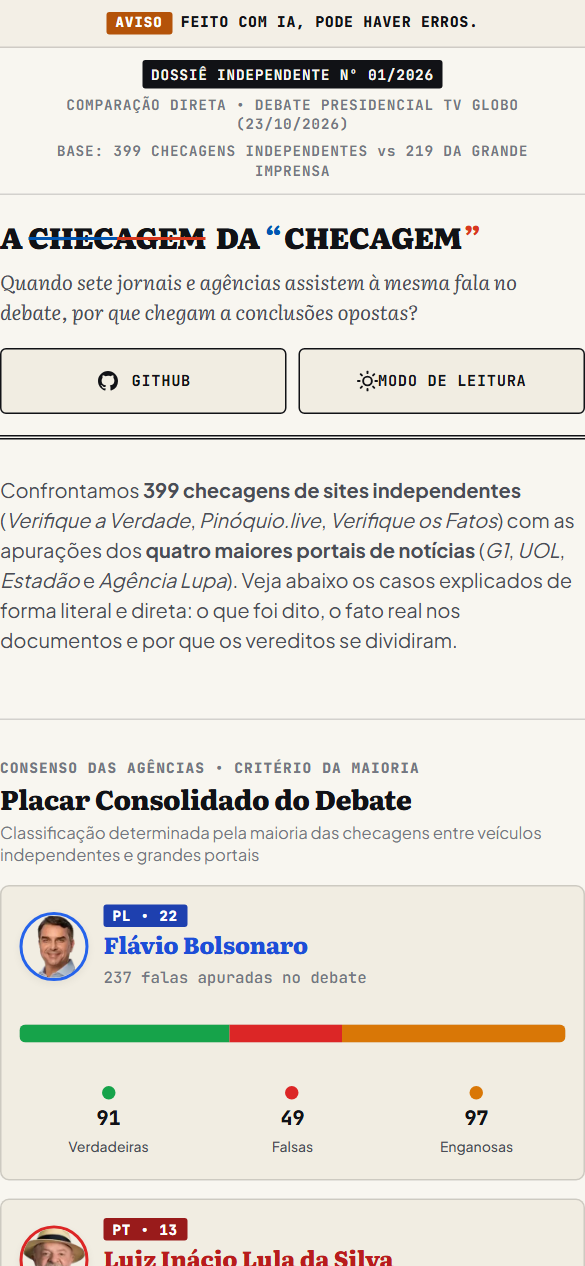
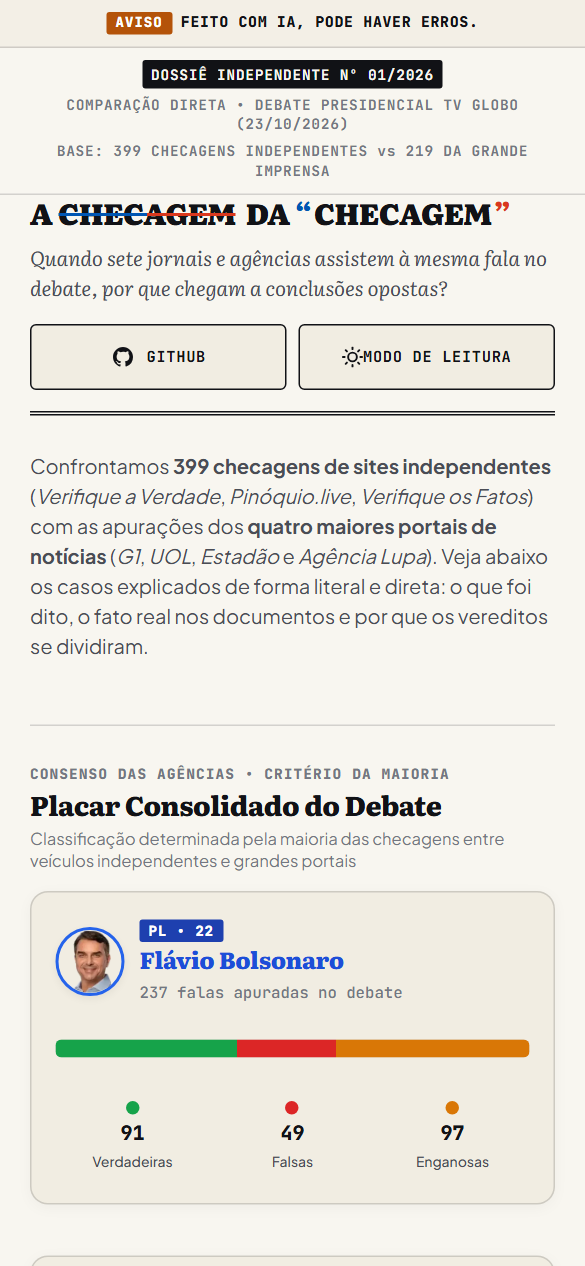
feat(mobile): implement dynamic view switcher, segmented duel perspectives and widen screen margins to 20px

diff --git a/app.js b/app.js
@@ -1,3 +1,79 @@
+
+// ==========================================================================
+// CONTROLE DE NAVEGAÇÃO DINÂMICA MOBILE (DOSSIÊ vs ÍNDICE DE CASOS)
+// ==========================================================================
+let currentMobileView = "dossier";
+
+function setMobileView(view, shouldScroll = true) {
+  const isMobile = window.innerWidth <= 768;
+  currentMobileView = view;
+  
+  const btnDossier = document.getElementById("tab-btn-dossier");
+  const btnIndex = document.getElementById("tab-btn-index");
+  const searchSec = document.querySelector(".search-filter-section");
+  const selectorSec = document.querySelector(".docket-selector");
+  const dossierSec = document.getElementById("active-case-dossier");
+  const frameworkSec = document.getElementById("case-framework");
+
+  if (!isMobile) {
+    if (searchSec) searchSec.style.display = "";
+    if (selectorSec) selectorSec.style.display = "";
+    if (dossierSec) dossierSec.style.display = "";
+    if (frameworkSec) frameworkSec.style.display = "";
+    return;
+  }
+
+  if (view === "dossier") {
+    btnDossier?.classList.add("active");
+    btnDossier?.setAttribute("aria-selected", "true");
+    btnIndex?.classList.remove("active");
+    btnIndex?.setAttribute("aria-selected", "false");
+
+    if (searchSec) searchSec.style.display = "none";
+    if (selectorSec) selectorSec.style.display = "none";
+    if (dossierSec) dossierSec.style.display = "block";
+    if (frameworkSec) frameworkSec.style.display = "block";
+
+    if (shouldScroll) {
+      document.querySelector(".mobile-view-tabs")?.scrollIntoView({ behavior: "smooth", block: "start" });
+    }
+  } else {
+    btnIndex?.classList.add("active");
+    btnIndex?.setAttribute("aria-selected", "true");
+    btnDossier?.classList.remove("active");
+    btnDossier?.setAttribute("aria-selected", "false");
+
+    if (searchSec) searchSec.style.display = "block";
+    if (selectorSec) selectorSec.style.display = "block";
+    if (dossierSec) dossierSec.style.display = "none";
+    if (frameworkSec) frameworkSec.style.display = "none";
+
+    if (shouldScroll) {
+      document.querySelector(".mobile-view-tabs")?.scrollIntoView({ behavior: "smooth", block: "start" });
+    }
+  }
+}
+
+function setupMobileNavigation() {
+  const btnDossier = document.getElementById("tab-btn-dossier");
+  const btnIndex = document.getElementById("tab-btn-index");
+
+  if (btnDossier) {
+    btnDossier.addEventListener("click", () => setMobileView("dossier"));
+  }
+  if (btnIndex) {
+    btnIndex.addEventListener("click", () => setMobileView("index"));
+  }
+
+  window.addEventListener("resize", () => {
+    setMobileView(currentMobileView, false);
+  });
+
+  if (window.innerWidth <= 768) {
+    setMobileView("dossier", false);
+  }
+}
+
 // ==========================================================================
 // A CHECAGEM DA CHECAGEM — APLICAÇÃO PRINCIPAL COM BUSCA, PAGINAÇÃO & MODOS
 // Suporte a TODAS as 412 Declarações do Debate Presidencial 2026
@@ -144,7 +220,7 @@ function renderCaseTabs() {
           if (target) {
             renderDossierCase(target);
             if (window.innerWidth <= 768) {
-              document.getElementById("active-case-dossier")?.scrollIntoView({ behavior: "smooth", block: "start" });
+              setMobileView("dossier", true);
             }
           }
         }
@@ -185,7 +261,7 @@ function renderCaseTabs() {
           if (target) {
             renderDossierCase(target);
             if (window.innerWidth <= 768) {
-              document.getElementById("active-case-dossier")?.scrollIntoView({ behavior: "smooth", block: "start" });
+              setMobileView("dossier", true);
             }
           }
         }
@@ -551,9 +627,15 @@ function renderDossierCase(c) {
       </div>
     </div>
 
-    <!-- 3. O Duelo em Duas Colunas da Gazeta -->
+    <!-- 3. O Duelo em Duas Colunas da Gazeta com Alternador de Perspectiva Mobile -->
+    <div class="duel-perspective-toggle" role="tablist" aria-label="Perspectiva editorial das agências">
+      <button type="button" class="btn-perspective-tab active" data-perspective="all">Todas as Checagens (${pressList.length + indepList.length})</button>
+      <button type="button" class="btn-perspective-tab" data-perspective="press">Grande Imprensa (${pressList.length})</button>
+      <button type="button" class="btn-perspective-tab" data-perspective="indep">Independentes (${indepList.length})</button>
+    </div>
+
     <div class="comparison-duel-layout">
-      <div class="duel-column">
+      <div class="duel-column duel-press-col">
         <div class="duel-column-header">
           <h3 class="column-entity-title">A Grande Imprensa</h3>
           <span class="column-meta-count">${pressList.length} checagens auditadas</span>
@@ -563,7 +645,7 @@ function renderDossierCase(c) {
         </div>
       </div>
 
-      <div class="duel-column">
+      <div class="duel-column duel-indep-col">
         <div class="duel-column-header">
           <h3 class="column-entity-title">Checadores Independentes</h3>
           <span class="column-meta-count">${indepList.length} checagens auditadas</span>
@@ -593,6 +675,30 @@ function renderDossierCase(c) {
       </div>
     </div>
   `;
+
+  
+  // Eventos do seletor de perspectiva editorial (mobile)
+  const perspectiveBtns = dossier.querySelectorAll(".btn-perspective-tab");
+  const pressCol = dossier.querySelector(".duel-press-col");
+  const indepCol = dossier.querySelector(".duel-indep-col");
+
+  perspectiveBtns.forEach(btn => {
+    btn.addEventListener("click", () => {
+      perspectiveBtns.forEach(b => b.classList.remove("active"));
+      btn.classList.add("active");
+      const p = btn.getAttribute("data-perspective");
+      if (p === "press") {
+        if (pressCol) pressCol.style.display = "flex";
+        if (indepCol) indepCol.style.display = "none";
+      } else if (p === "indep") {
+        if (pressCol) pressCol.style.display = "none";
+        if (indepCol) indepCol.style.display = "flex";
+      } else {
+        if (pressCol) pressCol.style.display = "flex";
+        if (indepCol) indepCol.style.display = "flex";
+      }
+    });
+  });
 
   // Eventos de navegação rápida do dossiê
   const dPrev = document.getElementById("dossier-nav-prev");
@@ -627,7 +733,11 @@ function renderDossierCase(c) {
 
   if (dIndex) {
     dIndex.addEventListener("click", () => {
-      document.querySelector(".docket-selector")?.scrollIntoView({ behavior: "smooth", block: "start" });
+      if (window.innerWidth <= 768) {
+        setMobileView("index", true);
+      } else {
+        document.querySelector(".docket-selector")?.scrollIntoView({ behavior: "smooth", block: "start" });
+      }
     });
   }
 }
@@ -849,5 +959,6 @@ document.addEventListener("DOMContentLoaded", () => {
   });
 
   setupThemeToggle();
+  setupMobileNavigation();
   applyFilters();
 });

diff --git a/styles.css b/styles.css
@@ -3791,3 +3791,144 @@ input:focus-visible {
   }
 }
 
+
+
+/* ==========================================================================
+   COMUTADORES E NAVEGAÇÃO DINÂMICA MOBILE (ESPECÍFICOS)
+   ========================================================================== */
+.mobile-view-tabs {
+  display: none;
+}
+
+.duel-perspective-toggle {
+  display: none;
+}
+
+@media (max-width: 768px) {
+  /* --------------------------------------------------------------------------
+     NOVA ARQUITETURA MOBILE DINÂMICA & RESPIRO AMPLO
+     -------------------------------------------------------------------------- */
+  .gazette-container {
+    padding: 0 20px !important;
+    max-width: 100% !important;
+    width: 100% !important;
+    box-sizing: border-box !important;
+  }
+
+  .docket-layout {
+    padding: 16px 20px 48px !important;
+    width: 100% !important;
+    box-sizing: border-box !important;
+  }
+
+  /* Cartões com cantos arredondados amigáveis e acolchoamento interno confortável */
+  .candidate-score-card,
+  .search-filter-section,
+  .docket-selector,
+  .case-dossier,
+  .transparency-panel {
+    border-radius: 12px !important;
+    padding: 18px 16px !important;
+    margin-bottom: 22px !important;
+    box-shadow: 0 2px 10px rgba(0, 0, 0, 0.04) !important;
+  }
+
+  /* Barra de Navegação Dinâmica: Dossiê vs Índice de Casos */
+  .mobile-view-tabs {
+    display: flex !important;
+    gap: 8px !important;
+    width: 100% !important;
+    margin-bottom: 18px !important;
+    padding: 4px !important;
+    background: var(--bg-paper-alt) !important;
+    border: 1px solid var(--border-rule) !important;
+    border-radius: 8px !important;
+    box-sizing: border-box !important;
+  }
+
+  .btn-mobile-tab {
+    flex: 1 1 50% !important;
+    min-height: 44px !important;
+    display: inline-flex !important;
+    align-items: center !important;
+    justify-content: center !important;
+    gap: 8px !important;
+    padding: 8px 12px !important;
+    font-family: var(--font-mono) !important;
+    font-size: 0.74rem !important;
+    font-weight: 700 !important;
+    border-radius: 6px !important;
+    border: 1px solid transparent !important;
+    background: transparent !important;
+    color: var(--text-ink-muted) !important;
+    cursor: pointer !important;
+    transition: all 0.15s ease !important;
+    text-align: center !important;
+    box-sizing: border-box !important;
+  }
+
+  .btn-mobile-tab.active {
+    background: var(--bg-card) !important;
+    color: var(--text-ink) !important;
+    border-color: var(--border-rule) !important;
+    box-shadow: 0 1px 4px rgba(0, 0, 0, 0.08) !important;
+    font-weight: 800 !important;
+  }
+
+  /* Alternador de Perspectiva Editorial do Duelo (Mobile) */
+  .duel-perspective-toggle {
+    display: flex !important;
+    gap: 6px !important;
+    width: 100% !important;
+    margin-bottom: 16px !important;
+    padding: 3px !important;
+    background: var(--bg-paper-alt) !important;
+    border: 1px solid var(--border-hairline) !important;
+    border-radius: 6px !important;
+    box-sizing: border-box !important;
+  }
+
+  .btn-perspective-tab {
+    flex: 1 1 33.33% !important;
+    min-height: 40px !important;
+    padding: 6px 4px !important;
+    font-family: var(--font-mono) !important;
+    font-size: 0.66rem !important;
+    font-weight: 700 !important;
+    border-radius: 4px !important;
+    border: 1px solid transparent !important;
+    background: transparent !important;
+    color: var(--text-ink-muted) !important;
+    cursor: pointer !important;
+    text-align: center !important;
+    transition: all 0.15s ease !important;
+    box-sizing: border-box !important;
+  }
+
+  .btn-perspective-tab.active {
+    background: var(--bg-card) !important;
+    color: var(--text-ink) !important;
+    border-color: var(--border-rule) !important;
+    box-shadow: 0 1px 3px rgba(0, 0, 0, 0.06) !important;
+    font-weight: 800 !important;
+  }
+
+  /* Refinamento dos artigos no duelo */
+  .factcheck-article-item {
+    border-radius: 8px !important;
+    padding: 14px !important;
+    margin-bottom: 12px !important;
+    border: 1px solid var(--border-hairline) !important;
+    background: var(--bg-paper) !important;
+  }
+
+  /* Acolchoamento aprimorado no dossiê */
+  .transcript-statement-box,
+  .fact-summary-banner,
+  .auditor-memo-box {
+    border-radius: 8px !important;
+    padding: 14px 14px !important;
+    margin-bottom: 16px !important;
+  }
+
+}

diff --git a/index.html b/index.html
@@ -8,7 +8,7 @@
   <link rel="preconnect" href="https://fonts.gstatic.com" crossorigin>
   <link href="https://fonts.googleapis.com/css2?family=Literata:ital,opsz,wght@0,7..72,400..900;1,7..72,400..700&family=Plus+Jakarta+Sans:wght@400;500;600;700;800&family=JetBrains+Mono:wght@500;700;800&display=swap" rel="stylesheet">
   <link rel="icon" type="image/svg+xml" href="favicon.svg">
-  <link rel="stylesheet" href="styles.css?v=1792886000">
+  <link rel="stylesheet" href="styles.css?v=1792887000">
 </head>
 <body class="newsprint-theme">
   <!-- Faixa de Transparência IA (Topo do Site) -->
@@ -152,7 +152,19 @@
   </header>
 
   <!-- Conteúdo Principal -->
-  <main class="gazette-container docket-layout">
+    <main class="gazette-container docket-layout">
+
+    <!-- Comutador de Navegação Mobile (Dossiê vs Índice de Declarações) -->
+    <nav class="mobile-view-tabs" role="tablist" aria-label="Visualização em dispositivos móveis">
+      <button type="button" class="btn-mobile-tab active" id="tab-btn-dossier" role="tab" aria-selected="true">
+        <svg width="15" height="15" viewBox="0 0 24 24" fill="none" stroke="currentColor" stroke-width="2.2" stroke-linecap="round" stroke-linejoin="round" aria-hidden="true"><path d="M14 2H6a2 2 0 0 0-2 2v16a2 2 0 0 0 2 2h12a2 2 0 0 0 2-2V8z"></path><polyline points="14 2 14 8 20 8"></polyline><line x1="16" y1="13" x2="8" y2="13"></line><line x1="16" y1="17" x2="8" y2="17"></line></svg>
+        <span>Dossiê da Declaração</span>
+      </button>
+      <button type="button" class="btn-mobile-tab" id="tab-btn-index" role="tab" aria-selected="false">
+        <svg width="15" height="15" viewBox="0 0 24 24" fill="none" stroke="currentColor" stroke-width="2.2" stroke-linecap="round" stroke-linejoin="round" aria-hidden="true"><rect x="3" y="3" width="7" height="7"></rect><rect x="14" y="3" width="7" height="7"></rect><rect x="14" y="14" width="7" height="7"></rect><rect x="3" y="14" width="7" height="7"></rect></svg>
+        <span>Explorar 412 Casos</span>
+      </button>
+    </nav>
 
     <!-- Seletor de Casos -->
         <!-- Controles de Busca e Filtros de Declarações (Keyword, Candidato & Veredito) -->
@@ -356,6 +368,6 @@
   </footer>
 
   <script src="declarations_data.js?v=1792876759"></script>
-  <script src="app.js?v=1792886000"></script>
+  <script src="app.js?v=1792887000"></script>
 </body>
 </html>
